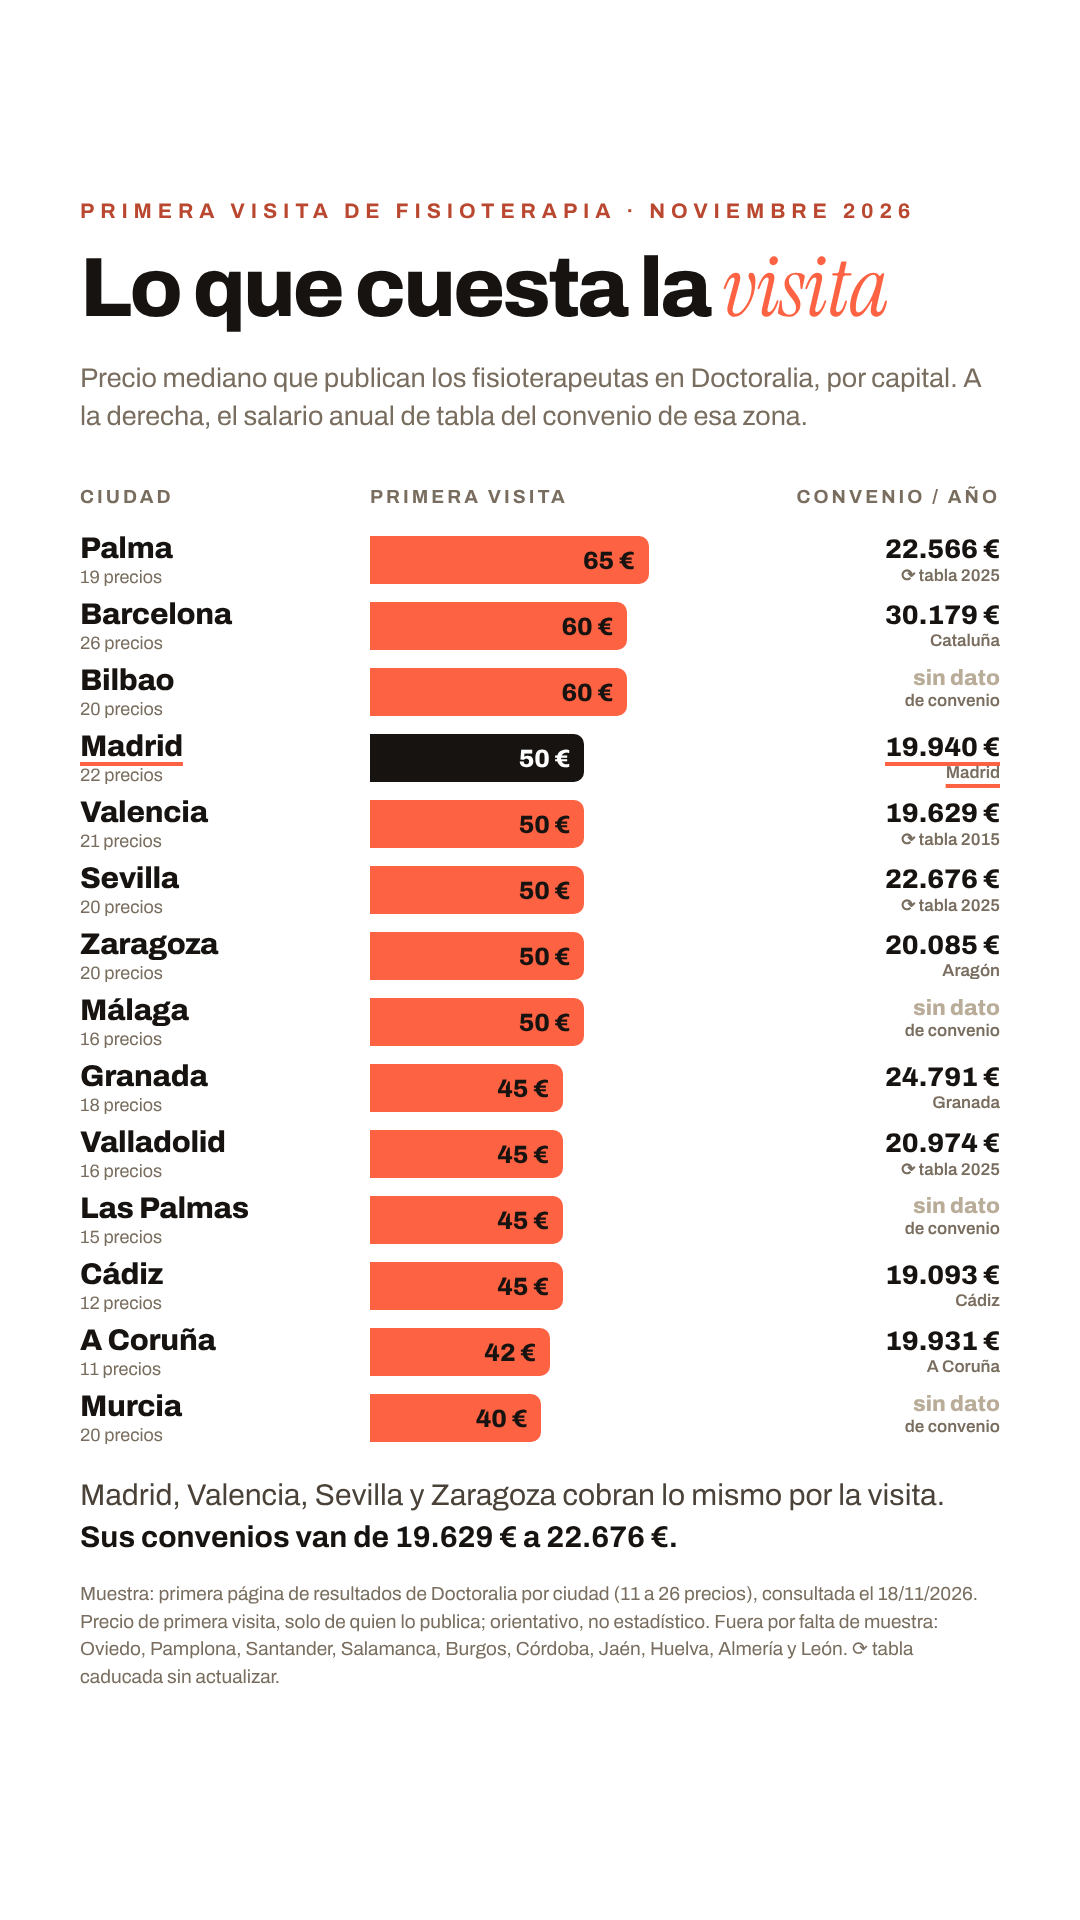
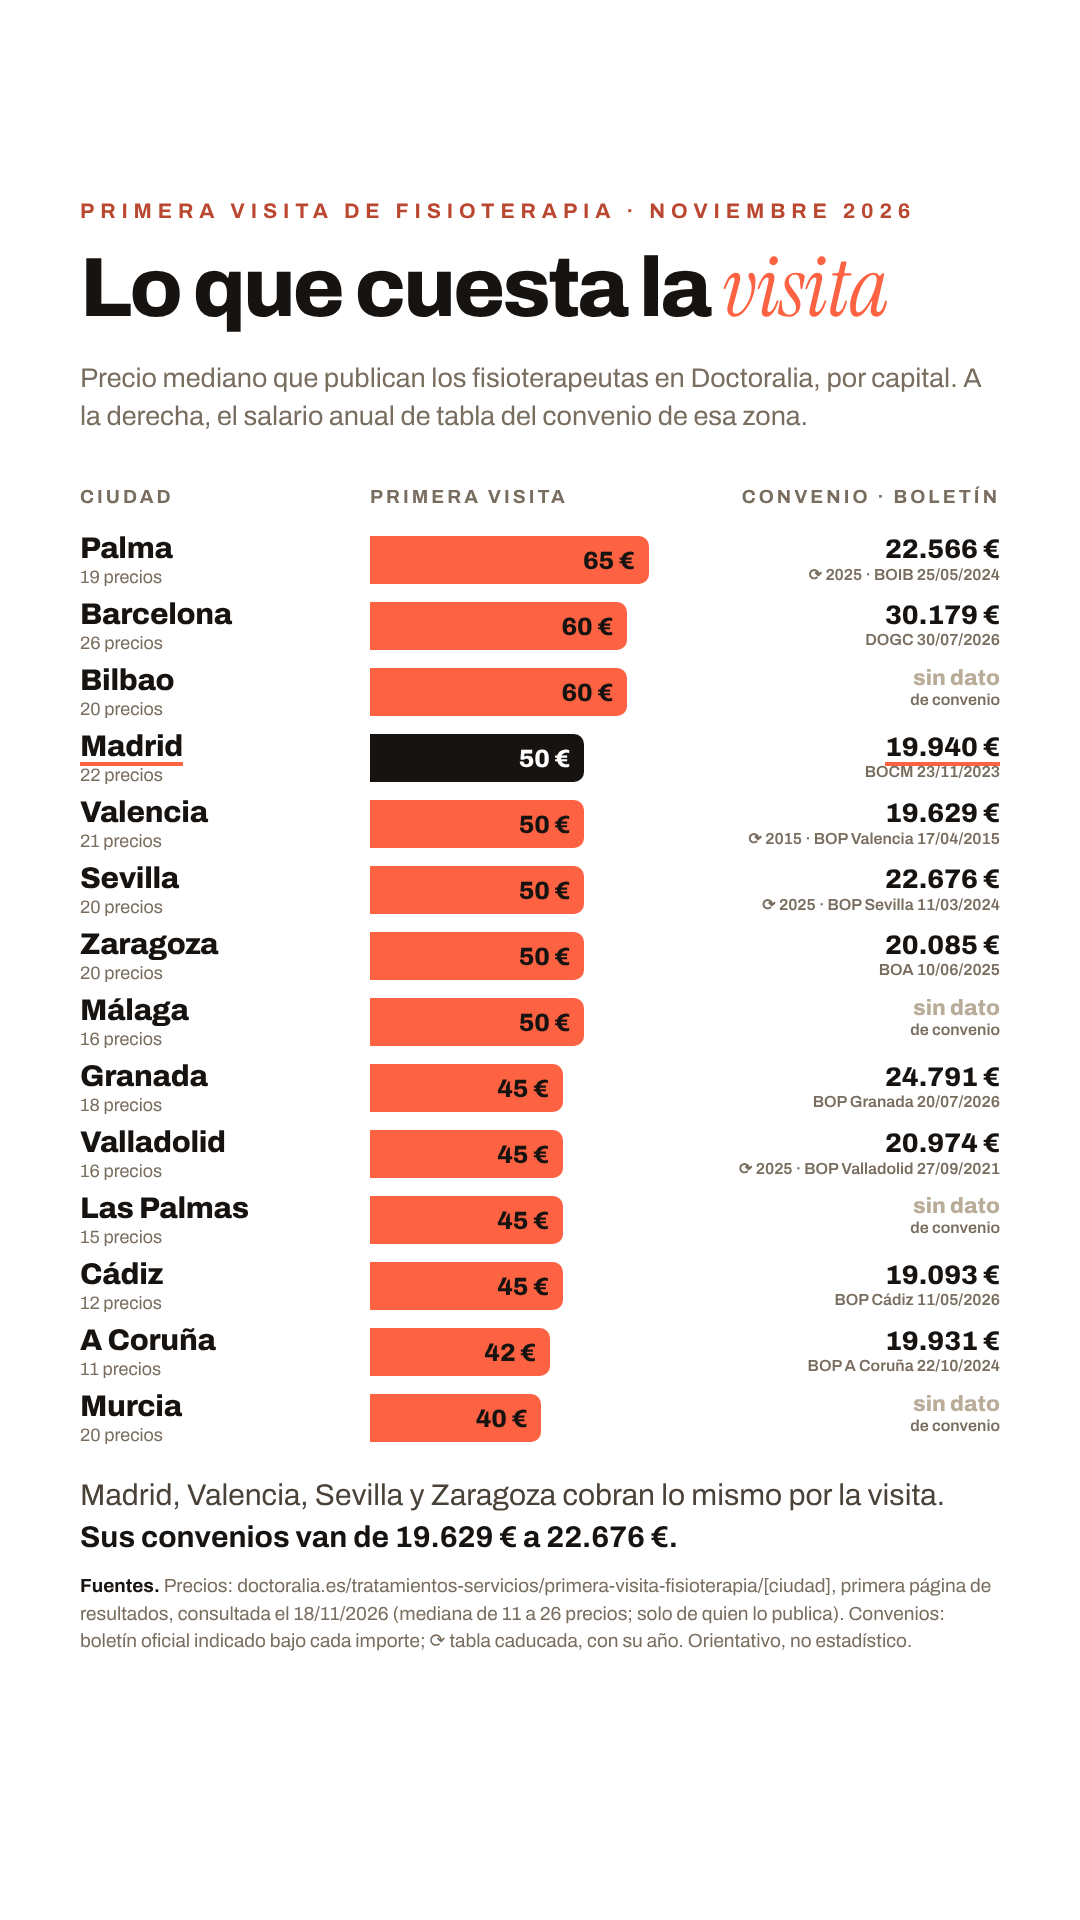
Historia de precios: fuentes verificables en la imagen
Boletín oficial y fecha bajo cada importe de convenio, ruta y fecha de
consulta de Doctoralia al pie, y URL por ciudad en el CSV.

Claude-Session: https://claude.ai/code/session_01B8nHMxpKDCaj2FQ5KeM4yb

diff --git a/instagram-raulferrer/historia-precios/historia.html b/instagram-raulferrer/historia-precios/historia.html
@@ -18,34 +18,35 @@
   .bar.mad span { color:#fff; }
   .fmad .nom b { text-decoration: underline 4px var(--nar); text-underline-offset: 6px; }
   .conv { position:absolute; right:0; top:4px; font-style:normal; font-weight:800; font-size:27px; text-align:right; white-space:nowrap; }
-  .conv small { display:block; font-size:17px; font-weight:600; color:var(--mut); margin-top:1px; }
+  .conv small { display:block; font-size:16px; font-weight:600; color:var(--mut); margin-top:1px; }
   .conv.no { color:#B9AD99; font-size:22px; }
-  .conv.mad { text-decoration: underline 4px var(--nar); text-underline-offset: 6px; }
+  .conv .vmad { text-decoration: underline 4px var(--nar); text-underline-offset: 6px; }
   .lect { font-size:30px; line-height:1.4; color:#4A4238; }
   .lect b { color:var(--ink); }
   .nota { font-size:19px; line-height:1.45; color:var(--mut); }
+  .nota b { color:var(--ink); }
 </style></head><body>
 <section class="hist" id="historia">
   <div class="a kick" style="top:200px">Primera visita de fisioterapia · noviembre 2026</div>
   <div class="a h2" style="top:246px; font-size:84px">Lo que cuesta la <span class="serif">visita</span></div>
   <p class="a sub" style="top:360px">Precio mediano que publican los fisioterapeutas en Doctoralia, por capital. A la derecha, el salario anual de tabla del convenio de esa zona.</p>
-  <div class="a cabe" style="top:486px"><span style="width:290px">Ciudad</span><span>Primera visita</span><span style="margin-left:auto">Convenio / año</span></div>
+  <div class="a cabe" style="top:486px"><span style="width:290px">Ciudad</span><span>Primera visita</span><span style="margin-left:auto">Convenio · boletín</span></div>
   <div class="comp">
-    <div class="fila" style="top:0px"><div class="nom"><b>Palma</b><small>19 precios</small></div><div class="bar" style="width:278.6px"><span>65 €</span></div><em class="conv">22.566 €<small>⟳ tabla 2025</small></em></div>
-    <div class="fila" style="top:66px"><div class="nom"><b>Barcelona</b><small>26 precios</small></div><div class="bar" style="width:257.1px"><span>60 €</span></div><em class="conv">30.179 €<small>Cataluña</small></em></div>
+    <div class="fila" style="top:0px"><div class="nom"><b>Palma</b><small>19 precios</small></div><div class="bar" style="width:278.6px"><span>65 €</span></div><em class="conv"><span class="">22.566 €</span><small>⟳ 2025 · BOIB 25/05/2024</small></em></div>
+    <div class="fila" style="top:66px"><div class="nom"><b>Barcelona</b><small>26 precios</small></div><div class="bar" style="width:257.1px"><span>60 €</span></div><em class="conv"><span class="">30.179 €</span><small>DOGC 30/07/2026</small></em></div>
     <div class="fila" style="top:132px"><div class="nom"><b>Bilbao</b><small>20 precios</small></div><div class="bar" style="width:257.1px"><span>60 €</span></div><em class="conv no">sin dato<small>de convenio</small></em></div>
-    <div class="fila fmad" style="top:198px"><div class="nom"><b>Madrid</b><small>22 precios</small></div><div class="bar mad" style="width:214.3px"><span>50 €</span></div><em class="conv mad">19.940 €<small>Madrid</small></em></div>
-    <div class="fila" style="top:264px"><div class="nom"><b>Valencia</b><small>21 precios</small></div><div class="bar" style="width:214.3px"><span>50 €</span></div><em class="conv">19.629 €<small>⟳ tabla 2015</small></em></div>
-    <div class="fila" style="top:330px"><div class="nom"><b>Sevilla</b><small>20 precios</small></div><div class="bar" style="width:214.3px"><span>50 €</span></div><em class="conv">22.676 €<small>⟳ tabla 2025</small></em></div>
-    <div class="fila" style="top:396px"><div class="nom"><b>Zaragoza</b><small>20 precios</small></div><div class="bar" style="width:214.3px"><span>50 €</span></div><em class="conv">20.085 €<small>Aragón</small></em></div>
+    <div class="fila fmad" style="top:198px"><div class="nom"><b>Madrid</b><small>22 precios</small></div><div class="bar mad" style="width:214.3px"><span>50 €</span></div><em class="conv"><span class="vmad">19.940 €</span><small>BOCM 23/11/2023</small></em></div>
+    <div class="fila" style="top:264px"><div class="nom"><b>Valencia</b><small>21 precios</small></div><div class="bar" style="width:214.3px"><span>50 €</span></div><em class="conv"><span class="">19.629 €</span><small>⟳ 2015 · BOP Valencia 17/04/2015</small></em></div>
+    <div class="fila" style="top:330px"><div class="nom"><b>Sevilla</b><small>20 precios</small></div><div class="bar" style="width:214.3px"><span>50 €</span></div><em class="conv"><span class="">22.676 €</span><small>⟳ 2025 · BOP Sevilla 11/03/2024</small></em></div>
+    <div class="fila" style="top:396px"><div class="nom"><b>Zaragoza</b><small>20 precios</small></div><div class="bar" style="width:214.3px"><span>50 €</span></div><em class="conv"><span class="">20.085 €</span><small>BOA 10/06/2025</small></em></div>
     <div class="fila" style="top:462px"><div class="nom"><b>Málaga</b><small>16 precios</small></div><div class="bar" style="width:214.3px"><span>50 €</span></div><em class="conv no">sin dato<small>de convenio</small></em></div>
-    <div class="fila" style="top:528px"><div class="nom"><b>Granada</b><small>18 precios</small></div><div class="bar" style="width:192.9px"><span>45 €</span></div><em class="conv">24.791 €<small>Granada</small></em></div>
-    <div class="fila" style="top:594px"><div class="nom"><b>Valladolid</b><small>16 precios</small></div><div class="bar" style="width:192.9px"><span>45 €</span></div><em class="conv">20.974 €<small>⟳ tabla 2025</small></em></div>
+    <div class="fila" style="top:528px"><div class="nom"><b>Granada</b><small>18 precios</small></div><div class="bar" style="width:192.9px"><span>45 €</span></div><em class="conv"><span class="">24.791 €</span><small>BOP Granada 20/07/2026</small></em></div>
+    <div class="fila" style="top:594px"><div class="nom"><b>Valladolid</b><small>16 precios</small></div><div class="bar" style="width:192.9px"><span>45 €</span></div><em class="conv"><span class="">20.974 €</span><small>⟳ 2025 · BOP Valladolid 27/09/2021</small></em></div>
     <div class="fila" style="top:660px"><div class="nom"><b>Las Palmas</b><small>15 precios</small></div><div class="bar" style="width:192.9px"><span>45 €</span></div><em class="conv no">sin dato<small>de convenio</small></em></div>
-    <div class="fila" style="top:726px"><div class="nom"><b>Cádiz</b><small>12 precios</small></div><div class="bar" style="width:192.9px"><span>45 €</span></div><em class="conv">19.093 €<small>Cádiz</small></em></div>
-    <div class="fila" style="top:792px"><div class="nom"><b>A Coruña</b><small>11 precios</small></div><div class="bar" style="width:180.0px"><span>42 €</span></div><em class="conv">19.931 €<small>A Coruña</small></em></div>
+    <div class="fila" style="top:726px"><div class="nom"><b>Cádiz</b><small>12 precios</small></div><div class="bar" style="width:192.9px"><span>45 €</span></div><em class="conv"><span class="">19.093 €</span><small>BOP Cádiz 11/05/2026</small></em></div>
+    <div class="fila" style="top:792px"><div class="nom"><b>A Coruña</b><small>11 precios</small></div><div class="bar" style="width:180.0px"><span>42 €</span></div><em class="conv"><span class="">19.931 €</span><small>BOP A Coruña 22/10/2024</small></em></div>
     <div class="fila" style="top:858px"><div class="nom"><b>Murcia</b><small>20 precios</small></div><div class="bar" style="width:171.4px"><span>40 €</span></div><em class="conv no">sin dato<small>de convenio</small></em></div>
   </div>
   <p class="a lect" style="top:1474px">Madrid, Valencia, Sevilla y Zaragoza cobran lo mismo por la visita. <b>Sus convenios van de 19.629 € a 22.676 €.</b></p>
-  <p class="a nota" style="top:1580px">Muestra: primera página de resultados de Doctoralia por ciudad (11 a 26 precios), consultada el 18/11/2026. Precio de primera visita, solo de quien lo publica; orientativo, no estadístico. Fuera por falta de muestra: Oviedo, Pamplona, Santander, Salamanca, Burgos, Córdoba, Jaén, Huelva, Almería y León. ⟳ tabla caducada sin actualizar.</p>
+  <p class="a nota" style="top:1572px"><b>Fuentes.</b> Precios: doctoralia.es/tratamientos-servicios/primera-visita-fisioterapia/[ciudad], primera página de resultados, consultada el 18/11/2026 (mediana de 11 a 26 precios; solo de quien lo publica). Convenios: boletín oficial indicado bajo cada importe; ⟳ tabla caducada, con su año. Orientativo, no estadístico.</p>
 </section></body></html>

diff --git a/instagram-raulferrer/historia-precios/generar.py b/instagram-raulferrer/historia-precios/generar.py
@@ -10,7 +10,8 @@ for i,r in enumerate(rows):
     med=f"{p:g} €".replace('.',',')
     if r['anual_convenio']:
         vieja=r['tabla_convenio']!='2026'
-        conv=f'<em class="conv{" mad" if mad else ""}">{eur(float(r["anual_convenio"]))}{f"<small>⟳ tabla {r['tabla_convenio']}</small>" if vieja else "<small>"+r["convenio"]+"</small>"}</em>'
+        ref=("⟳ " + r['tabla_convenio'] + " · " if vieja else "") + r['boletin_convenio']
+        conv=f'<em class="conv"><span class="{"vmad" if mad else ""}">{eur(float(r["anual_convenio"]))}</span><small>{ref}</small></em>'
     else:
         conv='<em class="conv no">sin dato<small>de convenio</small></em>'
     filas.append(f'<div class="fila{" fmad" if mad else ""}" style="top:{i*ROW}px"><div class="nom"><b>{r["ciudad"]}</b><small>{r["n"]} precios</small></div>'
@@ -35,23 +36,24 @@ html=f'''<!doctype html><html lang="es"><head><meta charset="utf-8"><title>Preci
   .bar.mad span {{ color:#fff; }}
   .fmad .nom b {{ text-decoration: underline 4px var(--nar); text-underline-offset: 6px; }}
   .conv {{ position:absolute; right:0; top:4px; font-style:normal; font-weight:800; font-size:27px; text-align:right; white-space:nowrap; }}
-  .conv small {{ display:block; font-size:17px; font-weight:600; color:var(--mut); margin-top:1px; }}
+  .conv small {{ display:block; font-size:16px; font-weight:600; color:var(--mut); margin-top:1px; }}
   .conv.no {{ color:#B9AD99; font-size:22px; }}
-  .conv.mad {{ text-decoration: underline 4px var(--nar); text-underline-offset: 6px; }}
+  .conv .vmad {{ text-decoration: underline 4px var(--nar); text-underline-offset: 6px; }}
   .lect {{ font-size:30px; line-height:1.4; color:#4A4238; }}
   .lect b {{ color:var(--ink); }}
   .nota {{ font-size:19px; line-height:1.45; color:var(--mut); }}
+  .nota b {{ color:var(--ink); }}
 </style></head><body>
 <section class="hist" id="historia">
   <div class="a kick" style="top:200px">Primera visita de fisioterapia · noviembre 2026</div>
   <div class="a h2" style="top:246px; font-size:84px">Lo que cuesta la <span class="serif">visita</span></div>
   <p class="a sub" style="top:360px">Precio mediano que publican los fisioterapeutas en Doctoralia, por capital. A la derecha, el salario anual de tabla del convenio de esa zona.</p>
-  <div class="a cabe" style="top:486px"><span style="width:{X0}px">Ciudad</span><span>Primera visita</span><span style="margin-left:auto">Convenio / año</span></div>
+  <div class="a cabe" style="top:486px"><span style="width:{X0}px">Ciudad</span><span>Primera visita</span><span style="margin-left:auto">Convenio · boletín</span></div>
   <div class="comp">
 {chr(10).join("    "+f for f in filas)}
   </div>
   <p class="a lect" style="top:{530+ROW*len(rows)+20}px">Madrid, Valencia, Sevilla y Zaragoza cobran lo mismo por la visita. <b>Sus convenios van de 19.629 € a 22.676 €.</b></p>
-  <p class="a nota" style="top:{530+ROW*len(rows)+126}px">Muestra: primera página de resultados de Doctoralia por ciudad (11 a 26 precios), consultada el 18/11/2026. Precio de primera visita, solo de quien lo publica; orientativo, no estadístico. Fuera por falta de muestra: Oviedo, Pamplona, Santander, Salamanca, Burgos, Córdoba, Jaén, Huelva, Almería y León. ⟳ tabla caducada sin actualizar.</p>
+  <p class="a nota" style="top:{530+ROW*len(rows)+118}px"><b>Fuentes.</b> Precios: doctoralia.es/tratamientos-servicios/primera-visita-fisioterapia/[ciudad], primera página de resultados, consultada el 18/11/2026 (mediana de 11 a 26 precios; solo de quien lo publica). Convenios: boletín oficial indicado bajo cada importe; ⟳ tabla caducada, con su año. Orientativo, no estadístico.</p>
 </section></body></html>'''
 open('historia.html','w').write(html)
 print('fin lista', 530+ROW*len(rows))

diff --git a/instagram-raulferrer/historia-precios/README.md b/instagram-raulferrer/historia-precios/README.md
@@ -3,7 +3,7 @@
 Imagen de historia (1080 × 1920) con la mediana del precio de primera visita de fisioterapia que publican los profesionales en Doctoralia en 14 capitales, junto al salario anual de tabla del convenio de sanidad privada de esa zona.
 
 - `generar.py`: genera `historia.html` desde `../reel-respuesta-margen/datos/precios-primera-visita-doctoralia-2026-11.csv`.
-- `salida/historia-precio-primera-visita.png`: imagen final.
+- `salida/historia-precio-primera-visita.png`: imagen final, con el boletín oficial de cada convenio bajo su importe y la ruta de Doctoralia consultada al pie.
 
 ## Método
 
